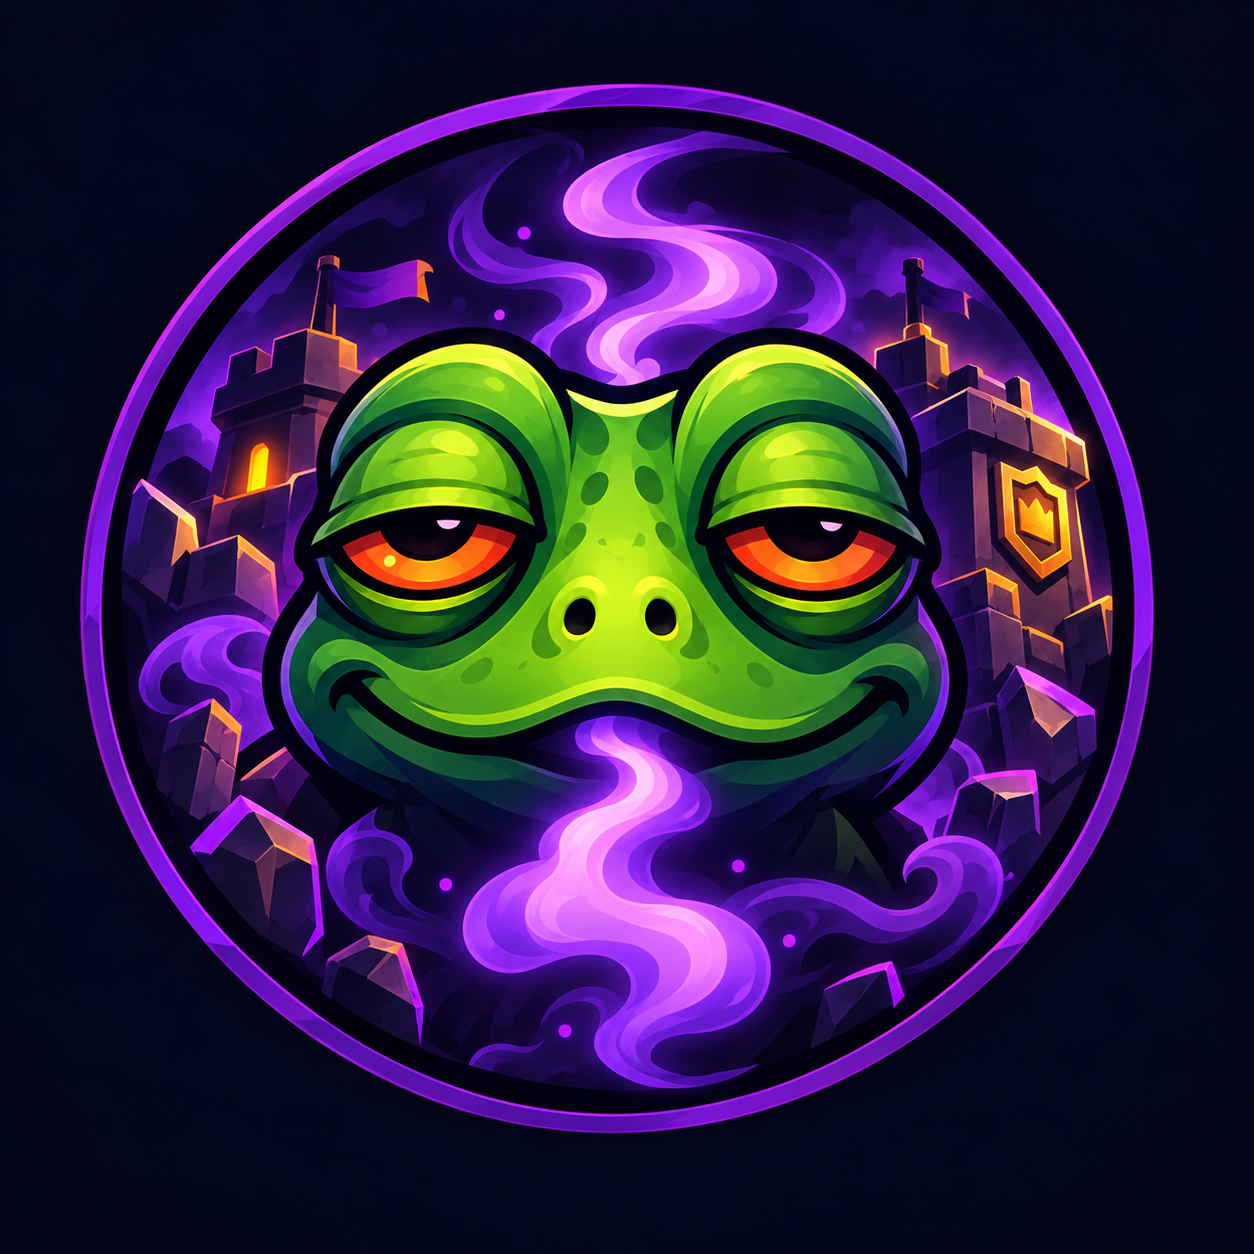
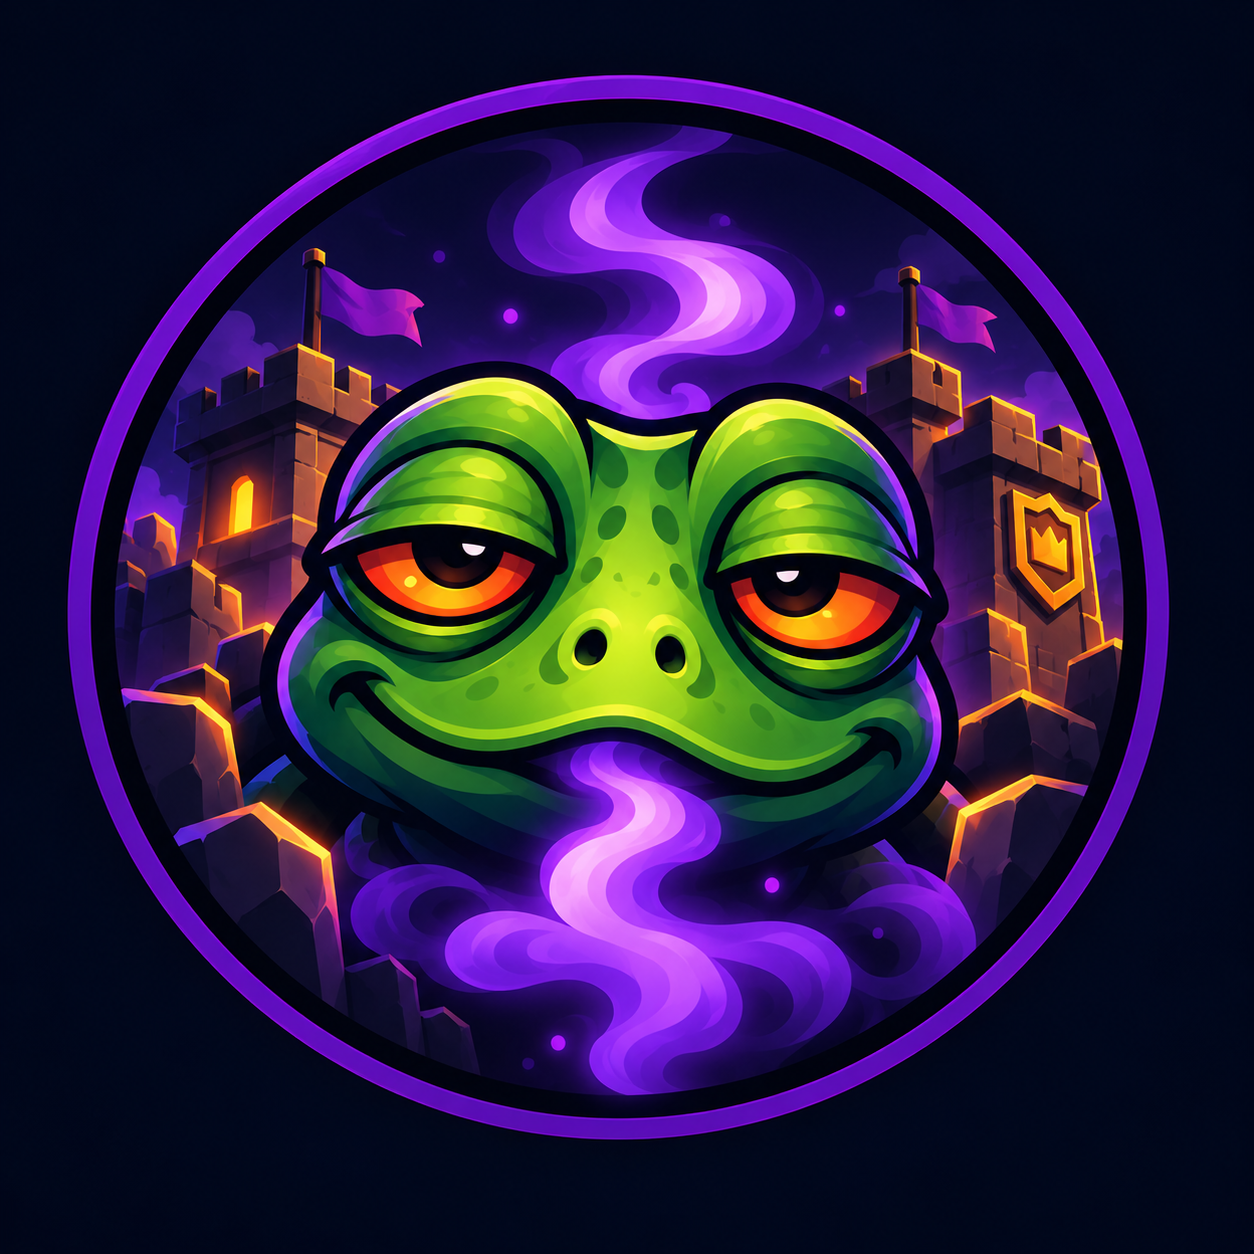
Update Home emblem to latest TURTLE artwork

diff --git a/cloudflarePages/index.html b/cloudflarePages/index.html
@@ -124,7 +124,7 @@
           <span class="observatory-orbit__ring observatory-orbit__ring--outer"></span>
           <span class="observatory-orbit__ring observatory-orbit__ring--inner"></span>
           <span class="observatory-orbit__axis"></span>
-          <img class="observatory-orbit__emblem" src="./assets/images/home-emblem.png" width="1254" height="1254" alt="" fetchpriority="high" />
+          <img class="observatory-orbit__emblem" src="./assets/images/home-emblem.png?v=20260930b" width="1254" height="1254" alt="" fetchpriority="high" />
           <span class="observatory-orbit__caption">ONE FAMILY. EVERY ORBIT.</span>
         </div>
         <div class="landing-hero__content">
